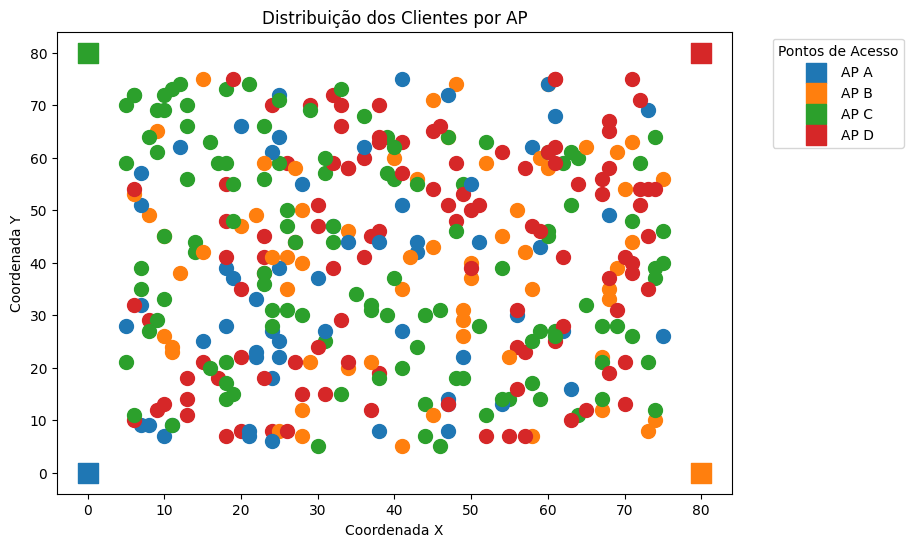
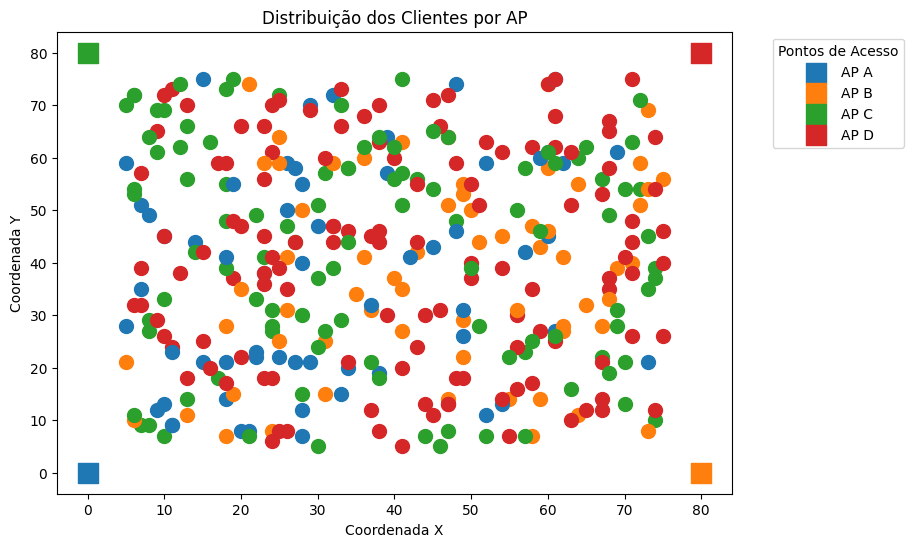
fix: corrige selecao

diff --git a/inteligencia_artificial/2_trabalho/main.py b/inteligencia_artificial/2_trabalho/main.py
@@ -5,13 +5,25 @@ from csvFunctions import *
 from graficos import *
 
 def algoritmo_genetico(aps, clientes, geracoes=100, taxa_mutacao=0.1):
-    populacao = gerar_populacao(aps, clientes, 2 * len(clientes))
+    # Gerar população inicial e calcular o fitness
+    populacao = gerar_populacao(aps, clientes, 4 * len(clientes))
     fitness = [avaliar_solucao(solucao, aps, clientes) for solucao in populacao]
-    
+
     for geracao in range(geracoes):
         nova_populacao = []
         
-        for _ in range(len(populacao) // 2):  # Para cada par de pais
+        # Guardar o melhor indivíduo da população atual
+        indice_melhor_fitness_atual = max(range(len(fitness)), key=lambda i: fitness[i])
+        melhor_individuo_atual = populacao[indice_melhor_fitness_atual]
+
+        #gerar_grafico(aps, clientes, melhor_individuo_atual, 'melhordageracao_' + str(geracao))
+        print(f"Geração {geracao + 1}: \n Distancia media: {calcular_distancia_media(melhor_individuo_atual, aps, clientes)}")
+        
+        # Garantir que o melhor indivíduo esteja na próxima geração
+        nova_populacao.append(melhor_individuo_atual) 
+        
+        # Gerar a nova população com crossover e mutação
+        for _ in range(len(populacao) // 2):  
             pais = selecao_torneio(populacao, fitness)
             pai1, pai2 = pais[0], pais[1]
             
@@ -19,25 +31,16 @@ def algoritmo_genetico(aps, clientes, geracoes=100, taxa_mutacao=0.1):
             filho1, filho2 = crossover(pai1, pai2)
             
             # Mutação nos filhos
-            filho1 = mutacao(filho1, aps, taxa_mutacao)
-            filho2 = mutacao(filho2, aps, taxa_mutacao)
+            if(random.random() < taxa_mutacao):
+                filho1 = mutacao(filho1, aps, taxa_mutacao)
+                filho2 = mutacao(filho2, aps, taxa_mutacao)
             
             nova_populacao.extend([filho1, filho2])
         
-        # Avaliar a nova população
         fitness = [avaliar_solucao(solucao, aps, clientes) for solucao in nova_populacao]
-        
-        # Substituir a população antiga pela nova população
         populacao = nova_populacao
         
-        # Exibir informações a cada geração
-        melhor_fitness = max(fitness)
-        melhor_individuo = populacao[fitness.index(melhor_fitness)]
-        gerar_grafico(aps, clientes, melhor_individuo, 'melhordageracao_' + str(geracao))
-        print(f"Geração {geracao + 1}: \n fitness: {melhor_fitness} \n Distancia media: {calcular_distancia_media(melhor_individuo,aps, clientes)}")
-      
     
-    # Retornar o melhor indivíduo
     return populacao[fitness.index(max(fitness))]
 
 apA = Ap('A', 64, (0, 0))

diff --git a/inteligencia_artificial/2_trabalho/utils.py b/inteligencia_artificial/2_trabalho/utils.py
@@ -60,21 +60,16 @@ def calcular_distancia_media(solucao, aps, clientes):
     # Retorna a distância média
     return sum(distancias) / len(distancias) if distancias else 0
 
-def selecao_torneio(populacao, fitness, tamanho_torneio=None):
+def selecao_torneio(populacao, fitness):
+    tamanho_torneio = 4  
+
+    torneio = random.sample(range(len(populacao)), tamanho_torneio)  
+    melhores = sorted(torneio, key=lambda i: fitness[i], reverse=True)
+
     pais = []
-    
-    if tamanho_torneio is None:
-        tamanho_torneio = len(populacao) // 6
-    
-    for _ in range(2):  # Selecionar dois pais
-        torneio = random.sample(range(len(populacao)), tamanho_torneio)  # Seleção de um torneio de tamanho_torneio
-        
-        # Ordenar os índices do torneio baseado no fitness e pegar os melhores
-        melhores = sorted(torneio, key=lambda i: fitness[i], reverse=True)
-        
-        # Adicionar o melhor indivíduo ao pool de pais
-        pais.append(populacao[melhores[0]])  
-    
+    pais.append(populacao[melhores[0]])
+    pais.append(populacao[melhores[1]])
+
     return pais
 
 # Crossover: Cruzamento de dois pais
@@ -87,10 +82,9 @@ def crossover(pai1, pai2):
 # Mutação: Introduzir mutações aleatórias
 def mutacao(individuo, aps, taxa_mutacao=0.1):
     for i in range(len(individuo)):
-        if random.random() < taxa_mutacao:  # Se o valor aleatório for menor que a taxa de mutação
-            ap_atual = individuo[i]  # O AP atual do cliente
-            ap_novo = random.choice([ap for ap in aps if ap.nome != ap_atual])  # Escolhe um AP diferente
-            individuo[i] = ap_novo.nome  # Atribui o novo AP
+        ap_atual = individuo[i]  # O AP atual do cliente
+        ap_novo = random.choice([ap for ap in aps if ap.nome != ap_atual])  # Escolhe um AP diferente
+        individuo[i] = ap_novo.nome  # Atribui o novo AP
     return individuo
 
 
